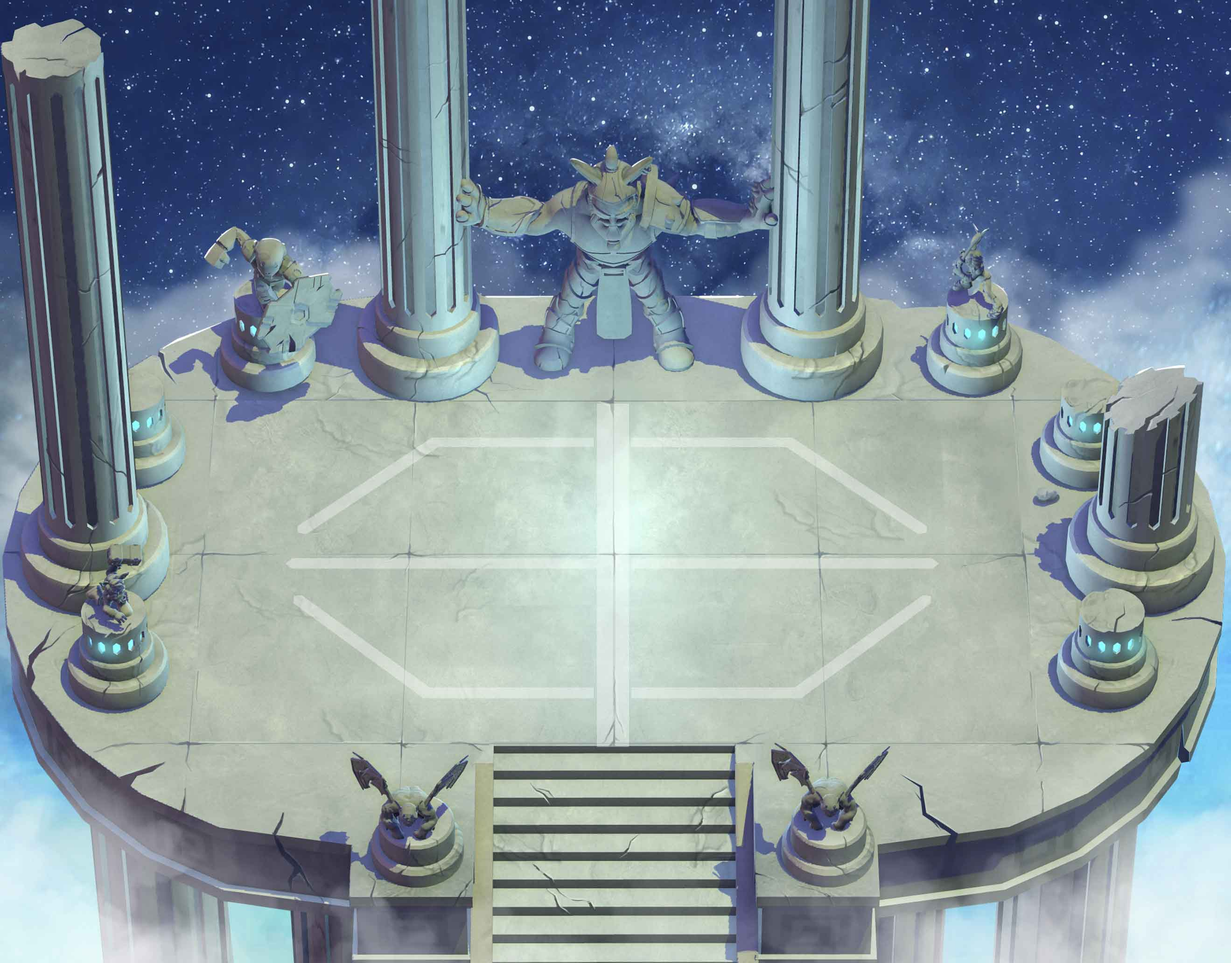
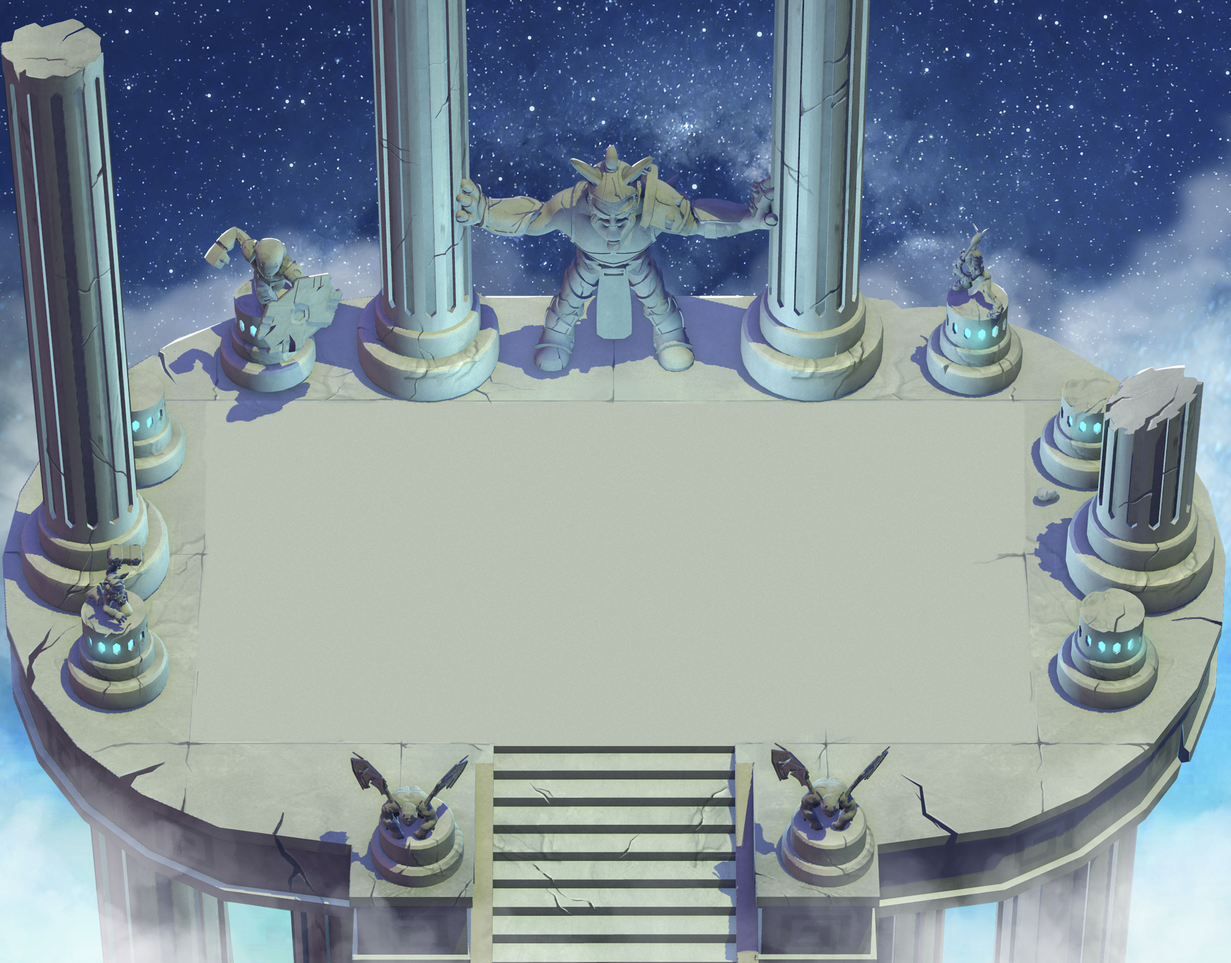
Improve grid system and clean battle field

diff --git a/Classes/MoriorGames/Grid/GridSystem.cpp b/Classes/MoriorGames/Grid/GridSystem.cpp
@@ -4,7 +4,9 @@
 using MoriorGames::GridSystem;
 USING_NS_CC;
 
-const Color4F GridSystem::FILL_COLOR{0, 0, 0, .1f};
+const Color4F GridSystem::FILL_COLOR{0, 0, 0, 0};
+
+const Color4F GridSystem::MOVE_FILL_COLOR{.2f, 1, .2f, .3f};
 
 const Color4F GridSystem::BORDER_COLOR{0, 0, 0, .15f};
 
@@ -24,6 +26,7 @@ GridSystem::GridSystem(Layer *layer)
     }
 
     coordinates = grid->createGridCoordinates();
+    height = width = Grid::TILE_SIZE / 2 * grid->getFactor();
     displayGrid();
 }
 
@@ -42,23 +45,24 @@ float GridSystem::axisXToScreen(int x)
     return visibleSize.width / 2 + x * Grid::TILE_SIZE * grid->getFactor();
 }
 
-void GridSystem::displayGrid()
+void MoriorGames::GridSystem::drawTile(Coordinate *coordinate, Color4F color)
 {
     auto drawNode = DrawNode::create();
-    float width = Grid::TILE_SIZE / 2 * grid->getFactor();
-    float height = Grid::TILE_SIZE / 2 * grid->getFactor();
 
-    for (auto coordinate:coordinates) {
+    Vec2 rectangle[4];
+    rectangle[0] = Vec2(coordinateToScreen(coordinate).x + width, coordinateToScreen(coordinate).y + height);
+    rectangle[1] = Vec2(coordinateToScreen(coordinate).x - width, coordinateToScreen(coordinate).y + height);
+    rectangle[2] = Vec2(coordinateToScreen(coordinate).x - width, coordinateToScreen(coordinate).y - height);
+    rectangle[3] = Vec2(coordinateToScreen(coordinate).x + width, coordinateToScreen(coordinate).y - height);
 
-        Vec2 rectangle[4];
-        rectangle[0] = Vec2(coordinateToScreen(coordinate).x + width, coordinateToScreen(coordinate).y + height);
-        rectangle[1] = Vec2(coordinateToScreen(coordinate).x - width, coordinateToScreen(coordinate).y + height);
-        rectangle[2] = Vec2(coordinateToScreen(coordinate).x - width, coordinateToScreen(coordinate).y - height);
-        rectangle[3] = Vec2(coordinateToScreen(coordinate).x + width, coordinateToScreen(coordinate).y - height);
-
-        drawNode->drawPolygon(rectangle, 4, FILL_COLOR, 1, BORDER_COLOR);
-
-    }
+    drawNode->drawPolygon(rectangle, 4, color, 1, BORDER_COLOR);
 
     layer->addChild(drawNode, Z_ORDER_GRID);
+}
+
+void GridSystem::displayGrid()
+{
+    for (auto coordinate:coordinates) {
+        drawTile(coordinate, FILL_COLOR);
+    }
 }

diff --git a/Classes/MoriorGames/View/Battle/HeroView.cpp b/Classes/MoriorGames/View/Battle/HeroView.cpp
@@ -2,9 +2,7 @@
 
 using MoriorGames::HeroView;
 
-const std::string HeroView::NAME = "hero-node";
-
-const Point HeroView::ANCHOR{0.5, 0.3};
+const Point HeroView::ANCHOR{0.5, 0.35};
 
 HeroView::HeroView(Layer *layer, GridSystem *gridSystem, BattleHero *hero)
     : ViewHelper(layer), gridSystem{gridSystem}, hero{hero}
@@ -43,10 +41,10 @@ Action *HeroView::moveAction()
 
 void MoriorGames::HeroView::addHealthBar()
 {
-    int position = 40;
+    int position = 37;
     for (int i = 0; i < hero->getCurrentHealth(); ++i) {
         auto hitPoint = Sprite::create("img/hit-point.png");
-        hitPoint->setPosition(position, 120);
+        hitPoint->setPosition(position, 110);
         container->addChild(hitPoint);
         position -= 18;
     }

diff --git a/Classes/MoriorGames/Grid/GridSystem.h b/Classes/MoriorGames/Grid/GridSystem.h
@@ -15,6 +15,7 @@ class GridSystem: public ScreenProperties
 {
 public:
     static const Color4F FILL_COLOR;
+    static const Color4F MOVE_FILL_COLOR;
     static const Color4F BORDER_COLOR;
 
 public:
@@ -22,10 +23,13 @@ public:
     cocos2d::Vec2 coordinateToScreen(Coordinate *coordinate);
     float axisYToScreen(int y);
     float axisXToScreen(int x);
+    void drawTile(Coordinate *coordinate, Color4F color);
 
 private:
     Layer *layer;
     Grid *grid;
+    float height = 0;
+    float width = 0;
     std::vector<Coordinate *> coordinates;
 
     void displayGrid();

diff --git a/Classes/MoriorGames/View/Battle/BattleView.cpp b/Classes/MoriorGames/View/Battle/BattleView.cpp
@@ -27,4 +27,9 @@ void BattleView::addView()
         battleHero->setCoordinate(new Coordinate(0, 0));
         new HeroView(layer, gridSystem, battleHero);
     }
+
+    gridSystem->drawTile(new Coordinate(0, 1), GridSystem::MOVE_FILL_COLOR);
+    gridSystem->drawTile(new Coordinate(0, -1), GridSystem::MOVE_FILL_COLOR);
+    gridSystem->drawTile(new Coordinate(1, 0), GridSystem::MOVE_FILL_COLOR);
+    gridSystem->drawTile(new Coordinate(-1, 0), GridSystem::MOVE_FILL_COLOR);
 }

diff --git a/Classes/MoriorGames/View/Battle/HeroView.h b/Classes/MoriorGames/View/Battle/HeroView.h
@@ -11,9 +11,6 @@ namespace MoriorGames {
 class HeroView: public ViewHelper
 {
 public:
-    int const WORLD_Y = 20;
-    int const DETAIL_Y = 120;
-    static const std::string NAME;
     static const Point ANCHOR;
 
 public:
